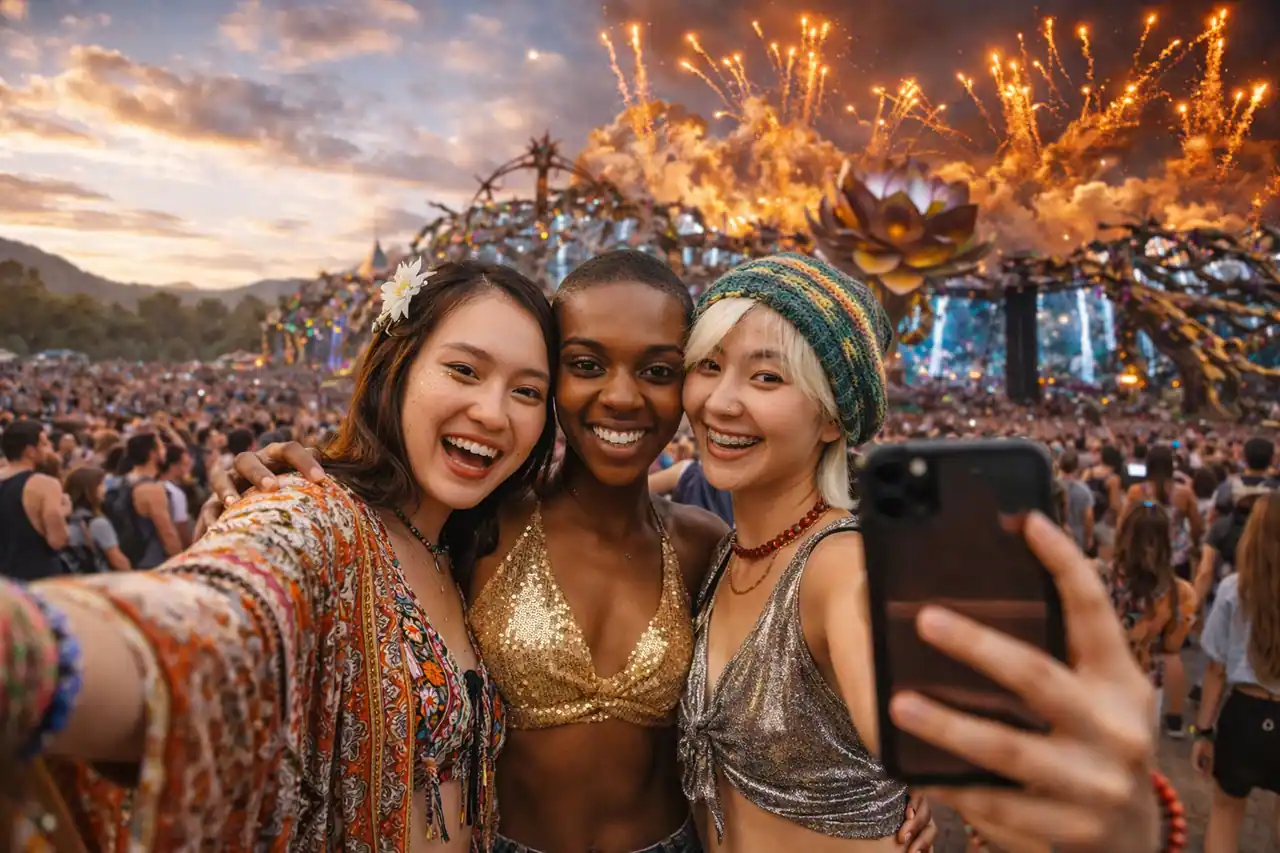
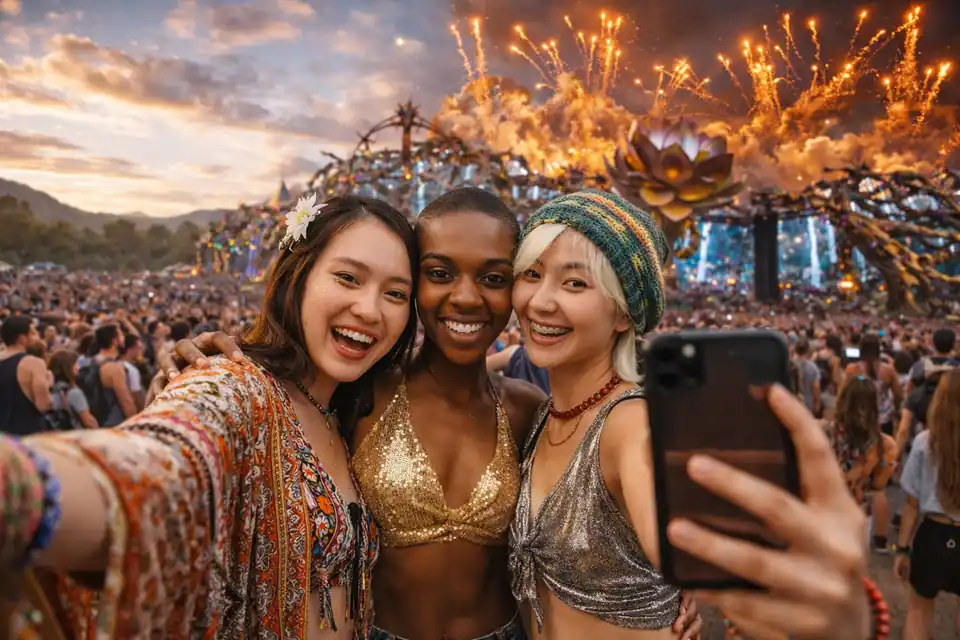
Improve homepage loading performance

Changed region(s): [[0.2812, 0.625, 0.375, 0.9062], [0.625, 0.3125, 0.6875, 0.4062], [0.25, 0.5625, 0.2812, 0.625]]

diff --git a/src/components/home/Hero.tsx b/src/components/home/Hero.tsx
@@ -1,5 +1,5 @@
 import React, { useState, useEffect, memo, useRef } from 'react';
-import { motion, useReducedMotion, useScroll, useTransform } from 'framer-motion';
+import { useReducedMotion } from 'framer-motion';
 import { SearchBar } from '../search/SearchBar';
 import type { SearchFilters, Trip } from '../../types';
 
@@ -14,8 +14,6 @@ const Hero: React.FC<HeroProps> = memo(({ trips, tripsLoading, searchTrips }) =>
   const [loadedBackgrounds, setLoadedBackgrounds] = useState(() => new Set([0]));
   const [isVideoUnavailable, setIsVideoUnavailable] = useState(false);
   const heroRef = useRef<HTMLElement>(null);
-  const { scrollYProgress } = useScroll({ target: heroRef, offset: ['start start', 'end start'] });
-  const heroParallax = useTransform(scrollYProgress, [0, 1], [0, 20]);
   const reduceMotion = useReducedMotion();
 
   const [isTextVisible, setIsTextVisible] = useState(true);
@@ -29,7 +27,6 @@ const Hero: React.FC<HeroProps> = memo(({ trips, tripsLoading, searchTrips }) =>
   ];
   const activeHeadline = heroHeadlines[currentBgIndex];
   const headlineWords = activeHeadline.split(' ');
-  const [visibleHeadlineCharacters, setVisibleHeadlineCharacters] = useState(0);
 
   const heroBackgrounds = React.useMemo(() => [
     {
@@ -86,35 +83,13 @@ const Hero: React.FC<HeroProps> = memo(({ trips, tripsLoading, searchTrips }) =>
     return () => window.clearTimeout(timeout);
   }, [currentBgIndex, heroBackgrounds, loadedBackgrounds]);
 
-  useEffect(() => {
-    const headlineLength = activeHeadline.length;
-    setVisibleHeadlineCharacters(0);
-
-    if (window.matchMedia('(prefers-reduced-motion: reduce)').matches) {
-      setVisibleHeadlineCharacters(headlineLength);
-      return undefined;
-    }
-
-    const typingInterval = window.setInterval(() => {
-      setVisibleHeadlineCharacters((visibleCharacters) => {
-        if (visibleCharacters >= headlineLength) {
-          window.clearInterval(typingInterval);
-          return headlineLength;
-        }
-        return visibleCharacters + 1;
-      });
-    }, 42);
-
-    return () => window.clearInterval(typingInterval);
-  }, [activeHeadline]);
-
   return (
     <> {/* This fragment is necessary to return multiple elements */}
       <section ref={heroRef} className="hero-section bg-gray-950 max-lg:min-h-[44svh] max-lg:items-start max-lg:overflow-visible max-lg:pb-10 max-lg:pt-14 lg:justify-start">
         {/* New Users Ticker */}
 
         {/* Dynamic Background Slideshow */}
-        <motion.div style={reduceMotion ? undefined : { y: heroParallax }} className="absolute inset-0 overflow-hidden max-lg:!inset-0 lg:left-1/2">
+        <div className="absolute inset-0 overflow-hidden max-lg:!inset-0 lg:left-1/2">
           {(!heroVideoUrl || isVideoUnavailable || reduceMotion) && heroBackgrounds.map((bg, index) => (
             <div
               key={index}
@@ -178,40 +153,22 @@ const Hero: React.FC<HeroProps> = memo(({ trips, tripsLoading, searchTrips }) =>
               </button>
             ))}
           </div>
-        </motion.div>
+        </div>
 
         <div className="hero-content lg:mx-auto lg:max-w-7xl lg:px-8 lg:text-left">
             <div className="relative z-10 mx-auto max-w-4xl animate-fade-in text-center text-white lg:ml-0 lg:mr-auto lg:w-3/5 lg:max-w-none lg:text-left">
               <h1
-                aria-label={activeHeadline}
                 className={`hero-headline mb-3 text-[32px] font-display font-extrabold leading-[1.08] tracking-tight text-white transition-opacity duration-300 sm:text-5xl md:text-6xl lg:mb-5 lg:text-7xl ${
                   isTextVisible ? 'opacity-100' : 'opacity-0'
                 }`}
               >
                 {headlineWords.map((word, wordIndex) => {
-                  const precedingCharacterCount = headlineWords
-                    .slice(0, wordIndex)
-                    .reduce((count, previousWord) => count + previousWord.length + 1, 0);
-
                   return (
                     <span
                       key={`${currentBgIndex}-${wordIndex}`}
-                      aria-hidden="true"
                       className="hero-headline__word"
                     >
-                      {Array.from(word).map((character, characterIndex) => {
-                        const index = precedingCharacterCount + characterIndex;
-                        return (
-                          <span
-                            key={index}
-                            className={`hero-headline__character ${
-                              index < visibleHeadlineCharacters ? 'is-visible' : ''
-                            }`}
-                          >
-                            {character}
-                          </span>
-                        );
-                      })}
+                      {word}
                     </span>
                   );
                 })}

diff --git a/index.html b/index.html
@@ -49,8 +49,6 @@
     <link rel="preconnect" href="https://fonts.googleapis.com">
     <link rel="preconnect" href="https://fonts.gstatic.com" crossorigin>
     <link rel="preconnect" href="https://xrugrszcqtiprncbfvqo.supabase.co" crossorigin>
-    <link rel="preconnect" href="https://images.pexels.com">
-    <link rel="dns-prefetch" href="https://images.pexels.com">
     
     <!-- Structured Data -->
     <script type="application/ld+json">
